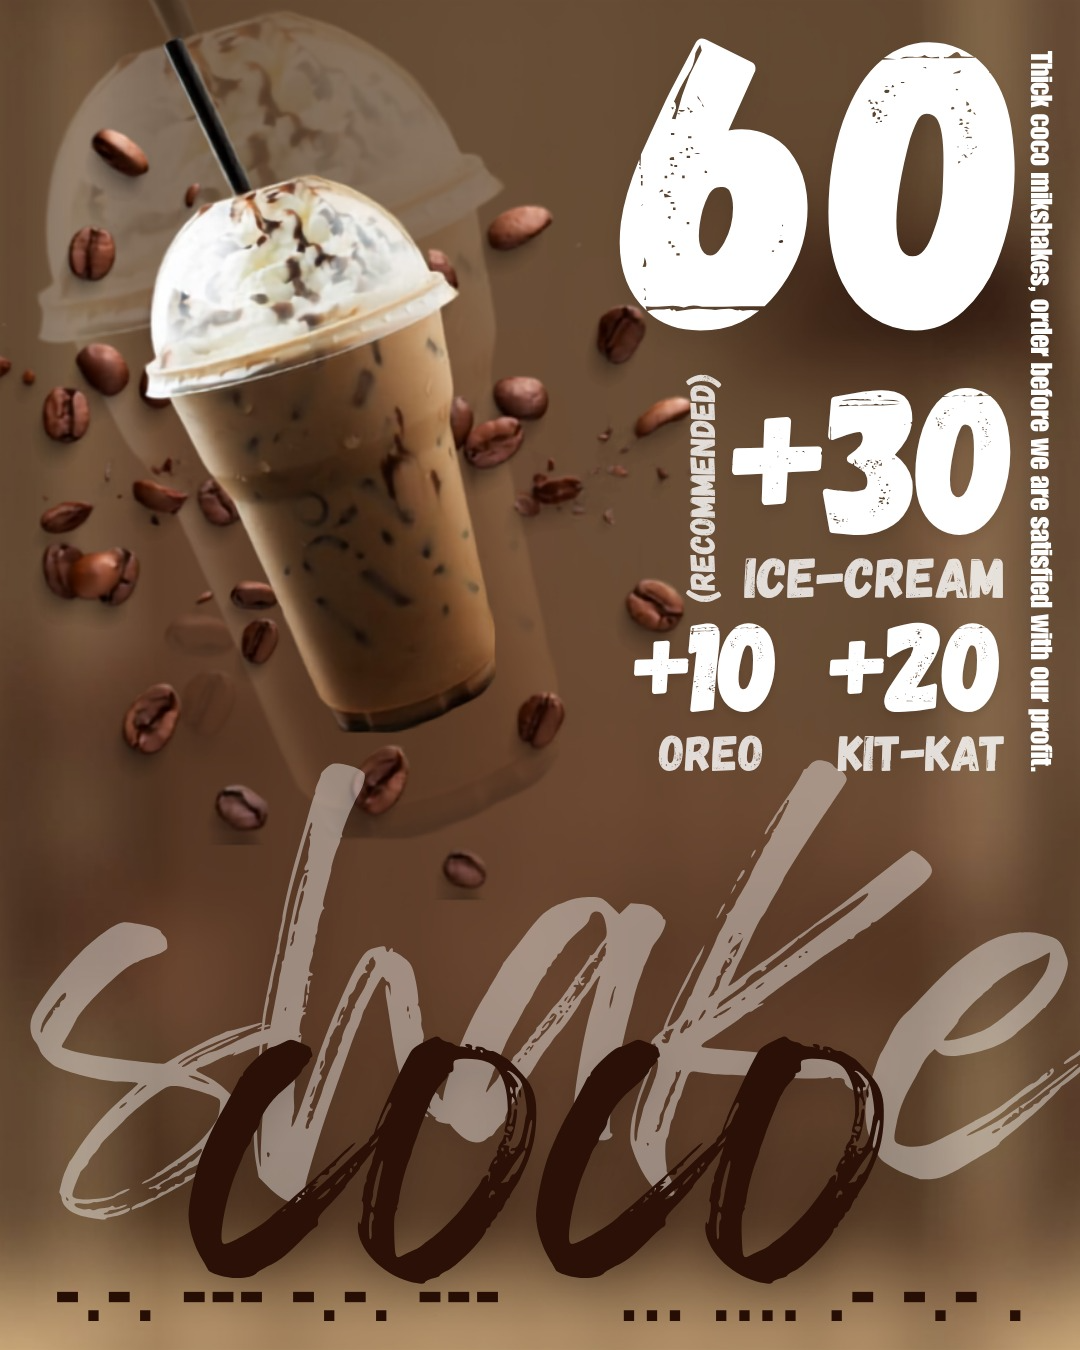
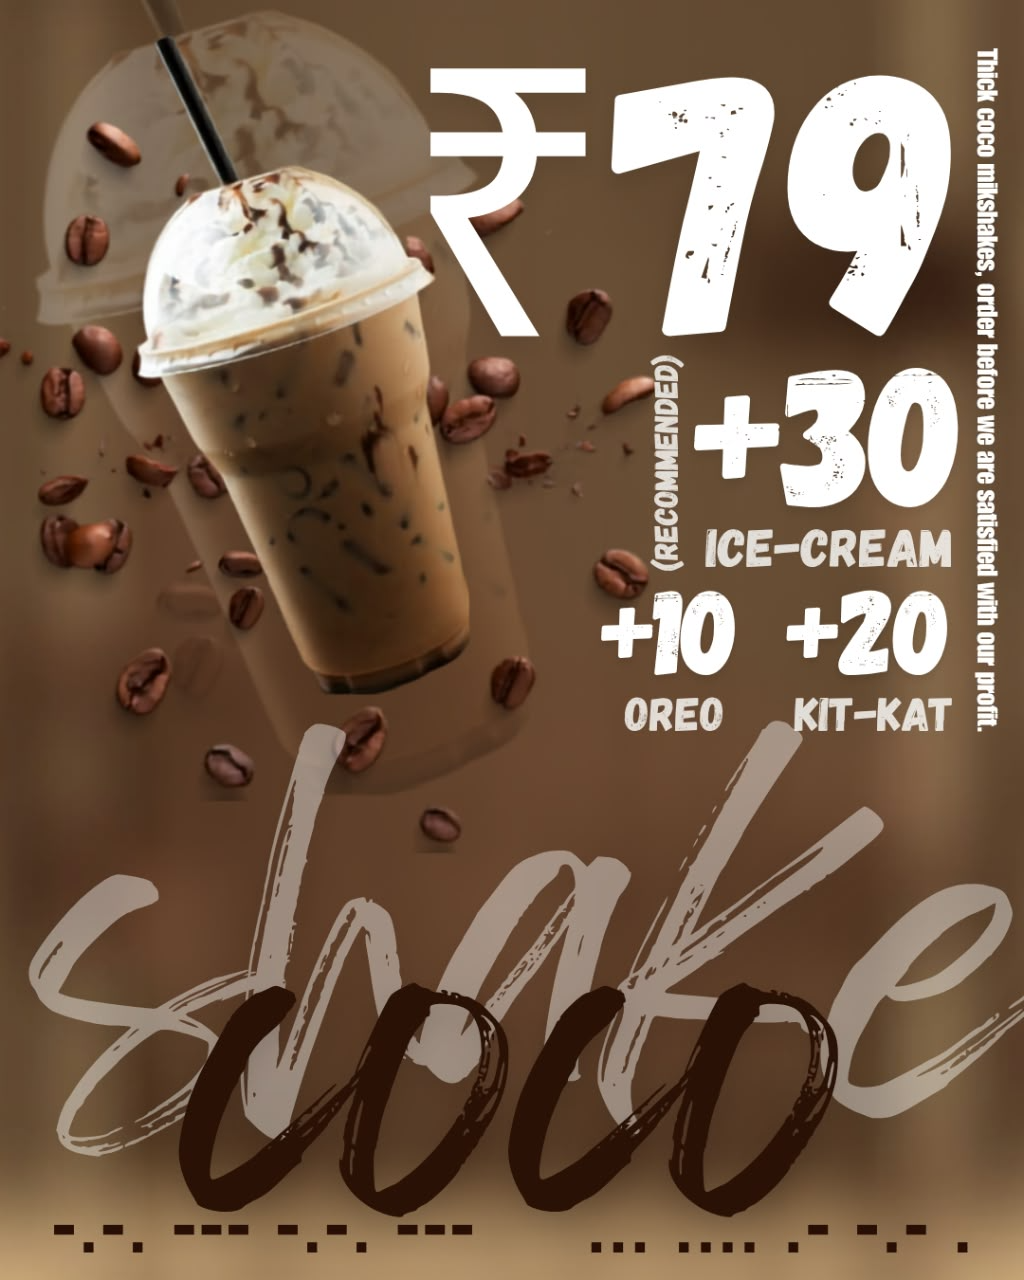
small potatoes 2314

Changed region(s): [[0.4062, 0.0312, 0.9375, 0.2812]]

diff --git a/src/app/foodfest/page.jsx b/src/app/foodfest/page.jsx
@@ -1,6 +1,7 @@
 'use client';
 
 import { useEffect, useMemo, useState } from 'react';
+import Link from 'next/link';
 import { motion, AnimatePresence } from 'framer-motion';
 import { useCart } from '../context/CartContext';
 import { useAuth } from '../context/AuthContext';
@@ -34,9 +35,10 @@ export default function FoodfestPage() {
   const [checkoutError, setCheckoutError] = useState('');
   const [myOrders, setMyOrders] = useState([]);
   const [showHistory, setShowHistory] = useState(false);
+  const [showMenu, setShowMenu] = useState(false);
 
   const { items, addItem, updateQty, removeItem } = useCart();
-  const { user } = useAuth();
+  const { user, loading: authLoading } = useAuth();
   const { profile } = useProfile();
 
   useEffect(() => {
@@ -161,6 +163,25 @@ export default function FoodfestPage() {
     setCheckoutError('');
   };
 
+  if (authLoading) {
+    return <FetchIntro loading label="Loading Food Fest" accentColor="#ff6b35" />;
+  }
+
+  if (!user) {
+    return (
+      <div className="relative min-h-[calc(100dvh-12rem)] bg-[#0a0604] text-white overflow-hidden flex items-center justify-center px-6">
+        <div className="pointer-events-none fixed inset-0 bg-[radial-gradient(ellipse_90%_60%_at_50%_-10%,rgba(255,107,53,0.18),transparent_55%)]" />
+        <div className="relative z-10 glass-card rounded-2xl p-8 text-center max-w-md">
+          <p className="text-2xl mb-2">🍜</p>
+          <p className="text-white/60 mb-4">Sign in to access the Food Fest.</p>
+          <Link href="/login?redirect=/foodfest" className="btn-primary">
+            Sign In / Create Account
+          </Link>
+        </div>
+      </div>
+    );
+  }
+
   return (
     <div className="relative min-h-screen bg-[#0a0604] text-white overflow-x-hidden pb-32">
       <div className="pointer-events-none fixed inset-0 bg-[radial-gradient(ellipse_90%_60%_at_50%_-10%,rgba(255,107,53,0.18),transparent_55%)]" />
@@ -198,7 +219,15 @@ export default function FoodfestPage() {
         <h1 className="text-4xl md:text-6xl font-bold uppercase tracking-tighter mb-2 bg-gradient-to-br from-white via-orange-100 to-orange-300 bg-clip-text text-transparent drop-shadow-[0_4px_20px_rgba(255,107,53,0.25)]">
           Food Fest
         </h1>
-        <p className="text-white/50 mb-8 max-w-md">Browse stalls, pick your favourites, pay online, skip the line.</p>
+        <p className="text-white/50 mb-6 max-w-md">Browse stalls, pick your favourites, pay online, skip the line.</p>
+
+        <button
+          type="button"
+          onClick={() => setShowMenu(true)}
+          className="mb-8 inline-flex items-center gap-2 rounded-full border border-orange-400/40 bg-orange-400/10 px-6 py-3 text-sm font-bold uppercase tracking-[0.2em] text-orange-300 transition-colors hover:bg-orange-400/20"
+        >
+          📋 Whole Menu
+        </button>
 
         {activeOrders.length > 0 && (
           <div className="mb-10 space-y-3">
@@ -315,7 +344,7 @@ export default function FoodfestPage() {
           </div>
         )}
 
-        <FetchIntro loading={loading} label="Loading Food Fest" accentColor="#ff6b35" />
+        {loading && <p className="text-white/40">Loading stalls…</p>}
         {error && <p className="rounded-lg border border-red-500/30 bg-red-500/10 px-4 py-3 text-sm text-red-300">{error}</p>}
 
         <div className="grid grid-cols-1 items-start gap-4 sm:grid-cols-2">
@@ -492,6 +521,36 @@ export default function FoodfestPage() {
                   </div>
                 </>
               )}
+            </motion.div>
+          </motion.div>
+        )}
+      </AnimatePresence>
+
+      <AnimatePresence>
+        {showMenu && (
+          <motion.div
+            initial={{ opacity: 0 }}
+            animate={{ opacity: 1 }}
+            exit={{ opacity: 0 }}
+            className="fixed inset-0 z-[300] flex items-center justify-center bg-black/80 p-4"
+            onClick={() => setShowMenu(false)}
+          >
+            <motion.div
+              initial={{ opacity: 0, scale: 0.95 }}
+              animate={{ opacity: 1, scale: 1 }}
+              exit={{ opacity: 0, scale: 0.95 }}
+              className="relative max-h-[90vh] max-w-3xl overflow-auto rounded-2xl border border-white/10 bg-[#0a0604]"
+              onClick={(e) => e.stopPropagation()}
+            >
+              <button
+                onClick={() => setShowMenu(false)}
+                className="absolute right-3 top-3 z-10 flex h-9 w-9 items-center justify-center rounded-full bg-black/60 text-lg text-white hover:bg-black/80"
+                aria-label="Close menu"
+              >
+                ×
+              </button>
+              {/* eslint-disable-next-line @next/next/no-img-element */}
+              <img src="/menu.png" alt="Whole Menu" className="block max-w-full" />
             </motion.div>
           </motion.div>
         )}

diff --git a/src/app/context/ProfileContext.jsx b/src/app/context/ProfileContext.jsx
@@ -1,0 +1,85 @@
+'use client';
+
+import { createContext, useContext, useCallback, useEffect, useState } from 'react';
+import { supabase } from '@/lib/supabaseClient';
+import { generateUniqueCode } from '@/lib/uniqueCode';
+import { useAuth } from './AuthContext';
+
+const ProfileContext = createContext({
+  profile: null,
+  loading: true,
+  refresh: async () => {},
+  save: async () => ({ error: 'not_ready' }),
+});
+
+// One shared profile fetch per signed-in user, not one per component.
+// useProfile() used to run its own `.from('profiles').select()` query
+// independently in every caller (Navbar, ProfileCompletionModal, and
+// whichever page is mounted all call it at once), so a single navigation
+// could fire 3+ simultaneous profile queries — each one contending for
+// gotrue-js's single cross-call auth-token lock and piling up into the
+// "orphaned lock ... forcefully acquiring" warnings/stalls that looked like
+// random sign-outs.
+export function ProfileProvider({ children }) {
+  const { user } = useAuth();
+  const [profile, setProfile] = useState(null);
+  const [loading, setLoading] = useState(true);
+
+  const refresh = useCallback(async () => {
+    if (!user) {
+      setProfile(null);
+      setLoading(false);
+      return;
+    }
+    setLoading(true);
+    const { data } = await supabase
+      .from('profiles')
+      .select('*')
+      .eq('user_id', user.id)
+      .maybeSingle();
+    setProfile(data || null);
+    setLoading(false);
+  }, [user]);
+
+  useEffect(() => {
+    refresh();
+  }, [refresh]);
+
+  const save = useCallback(
+    async (fields) => {
+      if (!user) return { error: 'Not signed in.' };
+
+      if (!profile) {
+        const { data, error } = await supabase
+          .from('profiles')
+          .insert({ user_id: user.id, unique_code: generateUniqueCode(), ...fields })
+          .select()
+          .maybeSingle();
+        if (error) return { error: error.message };
+        setProfile(data);
+        return { data };
+      }
+
+      const { data, error } = await supabase
+        .from('profiles')
+        .update({ ...fields, updated_at: new Date().toISOString() })
+        .eq('user_id', user.id)
+        .select()
+        .maybeSingle();
+      if (error) return { error: error.message };
+      setProfile(data);
+      return { data };
+    },
+    [user, profile]
+  );
+
+  return (
+    <ProfileContext.Provider value={{ profile, loading, refresh, save }}>
+      {children}
+    </ProfileContext.Provider>
+  );
+}
+
+export function useProfile() {
+  return useContext(ProfileContext);
+}

diff --git a/src/app/hooks/useProfile.js b/src/app/hooks/useProfile.js
@@ -1,64 +1,7 @@
 'use client';
 
-import { useCallback, useEffect, useState } from 'react';
-import { supabase } from '@/lib/supabaseClient';
-import { generateUniqueCode } from '@/lib/uniqueCode';
-import { useAuth } from '../context/AuthContext';
-
-export default function useProfile() {
-  const { user } = useAuth();
-  const [profile, setProfile] = useState(null);
-  const [loading, setLoading] = useState(true);
-
-  const refresh = useCallback(async () => {
-    if (!user) {
-      setProfile(null);
-      setLoading(false);
-      return;
-    }
-    setLoading(true);
-    const { data } = await supabase
-      .from('profiles')
-      .select('*')
-      .eq('user_id', user.id)
-      .maybeSingle();
-    setProfile(data || null);
-    setLoading(false);
-  }, [user]);
-
-  useEffect(() => {
-    refresh();
-  }, [refresh]);
-
-  const save = useCallback(
-    async (fields) => {
-      if (!user) return { error: 'Not signed in.' };
-
-      // Accounts created before the profiles table existed won't have a row
-      // yet — create one on first save instead of failing the update.
-      if (!profile) {
-        const { data, error } = await supabase
-          .from('profiles')
-          .insert({ user_id: user.id, unique_code: generateUniqueCode(), ...fields })
-          .select()
-          .maybeSingle();
-        if (error) return { error: error.message };
-        setProfile(data);
-        return { data };
-      }
-
-      const { data, error } = await supabase
-        .from('profiles')
-        .update({ ...fields, updated_at: new Date().toISOString() })
-        .eq('user_id', user.id)
-        .select()
-        .maybeSingle();
-      if (error) return { error: error.message };
-      setProfile(data);
-      return { data };
-    },
-    [user, profile]
-  );
-
-  return { profile, loading, refresh, save };
-}
+// Re-exported from ProfileContext (a shared provider) rather than defined
+// here directly — see that file for why: each caller used to run its own
+// independent Supabase query, which piled up into gotrue-js auth-lock
+// contention when several profile-consuming components were mounted at once.
+export { useProfile as default } from '../context/ProfileContext';

diff --git a/src/app/context/AuthContext.jsx b/src/app/context/AuthContext.jsx
@@ -17,16 +17,50 @@ export function AuthProvider({ children }) {
   const [loading, setLoading] = useState(true);
 
   useEffect(() => {
-    supabase.auth.getSession().then(({ data }) => {
-      setUser(data?.session?.user ?? null);
+    let active = true;
+
+    supabase.auth.getSession().then(async ({ data }) => {
+      if (!active) return;
+      if (data?.session) {
+        setUser(data.session.user);
+        setLoading(false);
+        return;
+      }
+      // getSession() came back empty — could be a real "no session", or it
+      // could be gotrue-js's auth-token lock timing out under the
+      // concurrent load of every page's own getSession()/data calls and
+      // resolving empty as a fallback rather than throwing. Confirm with
+      // getUser(), which re-checks the stored token directly, before
+      // treating this as an actual logged-out state.
+      try {
+        const { data: userData } = await supabase.auth.getUser();
+        if (!active) return;
+        setUser(userData?.user ?? null);
+      } finally {
+        if (active) setLoading(false);
+      }
+    });
+
+    const { data: sub } = supabase.auth.onAuthStateChange((event, session) => {
+      if (!active) return;
+      if (session) {
+        setUser(session.user);
+        setLoading(false);
+        return;
+      }
+      // A null session on any event other than an explicit SIGNED_OUT is
+      // more likely a transient lock/refresh hiccup than a real logout —
+      // e.g. gotrue's own re-checks on tab focus, or lock contention from
+      // the several pages/contexts that call getSession() independently.
+      // Only SIGNED_OUT is trusted to actually clear the signed-in user.
+      if (event === 'SIGNED_OUT') setUser(null);
       setLoading(false);
     });
 
-    const { data: sub } = supabase.auth.onAuthStateChange((_event, session) => {
-      setUser(session?.user ?? null);
-    });
-
-    return () => sub?.subscription?.unsubscribe();
+    return () => {
+      active = false;
+      sub?.subscription?.unsubscribe();
+    };
   }, []);
 
   // Single "log in, or create an account if none exists" call — no

diff --git a/src/app/layout.js b/src/app/layout.js
@@ -16,6 +16,7 @@ import NetworkStatusToast from "./components/NetworkStatusToast";
 import CartToast from "./components/CartToast";
 import FetchTracker from "./components/FetchTracker";
 import { AuthProvider } from "./context/AuthContext";
+import { ProfileProvider } from "./context/ProfileContext";
 import { CartProvider } from "./context/CartContext";
 import { MusicProvider } from "./context/MusicContext";
 import "./globals.css";
@@ -105,19 +106,21 @@ export default function RootLayout({ children }) {
       </head>
       <body className="min-h-dvh bg-black text-white antialiased">
         <AuthProvider>
-          <CartProvider>
-            <MusicProvider>
-              <CursorTrialWrapper />
-              <ProfileCompletionModal />
-              <NetworkStatusToast />
-              <CartToast />
-              <FetchTracker />
-              <Navbar />
-              <div className="h-[10vh] shrink-0 bg-transparent" aria-hidden />
-              <main className="relative min-h-0">{children}</main>
-              <Footer />
-            </MusicProvider>
-          </CartProvider>
+          <ProfileProvider>
+            <CartProvider>
+              <MusicProvider>
+                <CursorTrialWrapper />
+                <ProfileCompletionModal />
+                <NetworkStatusToast />
+                <CartToast />
+                <FetchTracker />
+                <Navbar />
+                <div className="h-[10vh] shrink-0 bg-transparent" aria-hidden />
+                <main className="relative min-h-0">{children}</main>
+                <Footer />
+              </MusicProvider>
+            </CartProvider>
+          </ProfileProvider>
         </AuthProvider>
       </body>
     </html>

diff --git a/src/lib/supabaseClient.js b/src/lib/supabaseClient.js
@@ -1,7 +1,18 @@
 import { createClient } from '@supabase/supabase-js';
+import { processLock } from '@supabase/auth-js';
 
 // Single shared browser Supabase client — auth session persists in
 // localStorage so refreshing the page keeps the user signed in.
+//
+// `lock: processLock` swaps out gotrue-js's default `navigatorLock`, which
+// serializes auth calls across browser tabs via the Web Locks API. Several
+// contexts (CartContext, ProfileContext) each read the session the moment a
+// user is available, and under navigatorLock those concurrent reads were
+// occasionally not releasing within its 5s timeout ("orphaned lock ...
+// forcefully acquiring") — and that forced recovery could race a token
+// refresh, actually invalidating the session and signing the user out.
+// processLock serializes the same calls in-memory within this tab instead,
+// which is all this app needs (no requirement to coordinate across tabs).
 export const supabase = createClient(
   process.env.NEXT_PUBLIC_SUPABASE_URL,
   process.env.NEXT_PUBLIC_SUPABASE_KEY,
@@ -9,6 +20,7 @@ export const supabase = createClient(
     auth: {
       persistSession: true,
       autoRefreshToken: true,
+      lock: processLock,
     },
   }
 );
